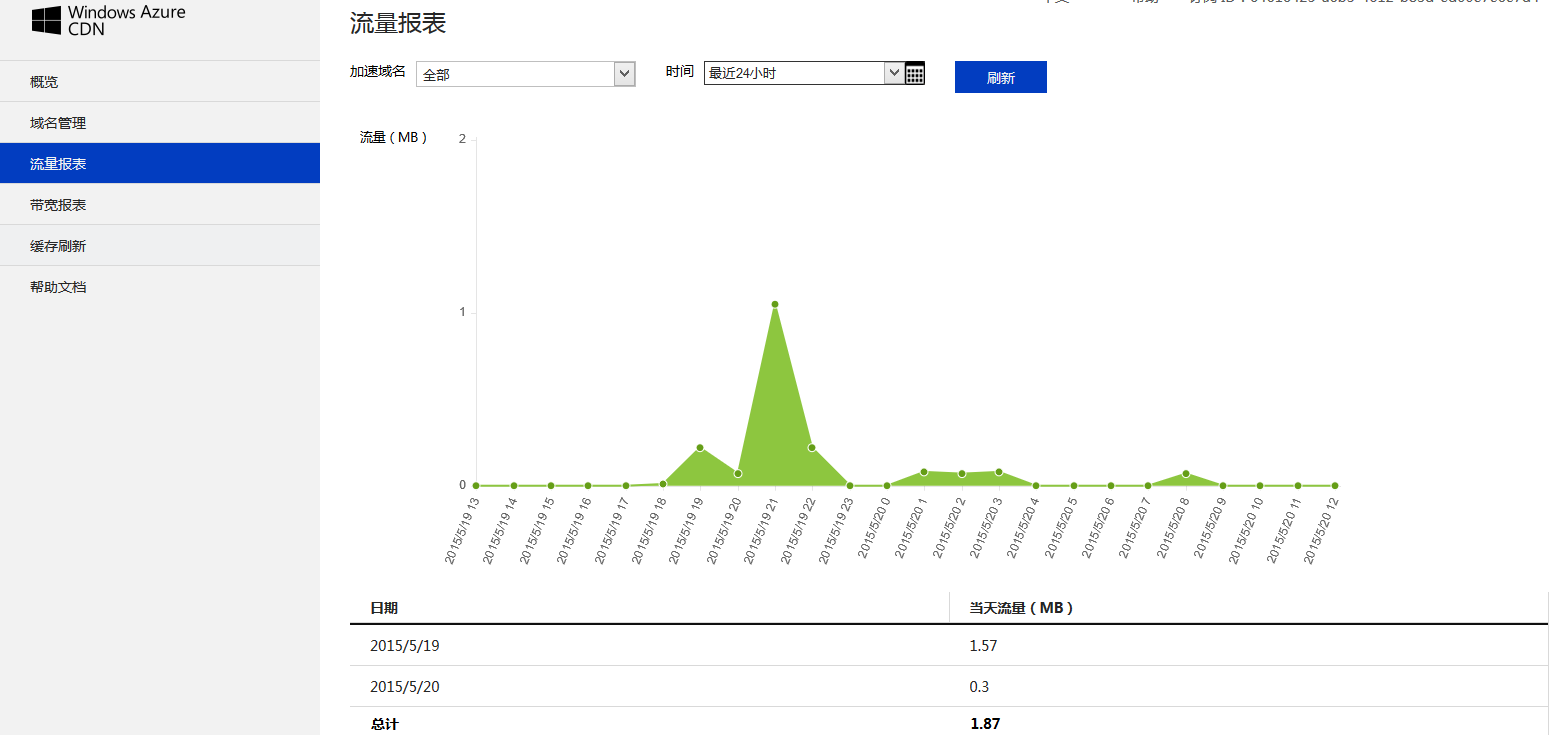
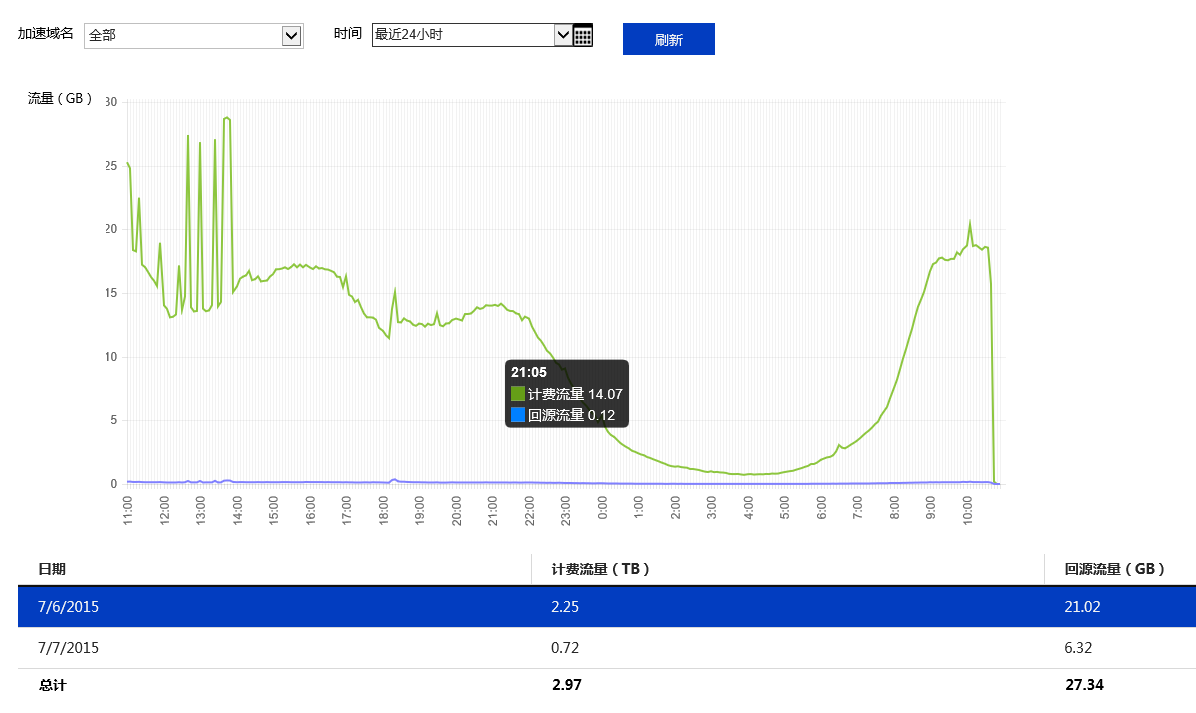
add origin flow and origin bandwidth description

diff --git a/UnifiedPortalHelpDoc/usage-chart.md b/UnifiedPortalHelpDoc/usage-chart.md
@@ -6,10 +6,10 @@
 
 流量统计报表具有以下功能：
 
--   针对有多个Azure 订阅的用户，提供单个订阅的流量统计。
--   针对有多个加速域名的Azure订阅，支持查询单个加速域名流量统计结果和所有加速域名流量汇总。
+-   针对有多个Azure 订阅的用户，提供单个订阅的流量以及回源流量统计。
+-   针对有多个加速域名的Azure订阅，支持查询单个加速域名流量（以及回源流量）统计结果和所有加速域名流量（以及回源流量）汇总。
 -   最小查询粒度精确到小时。
--   提供多种查询时间范围灵活选择。 用户可以查询最近24小时，昨天，今天，最近七天，最近十五天，最近三十天和上个月的流量统计。也可以选择查询某个特定的时间段的流量 （统计时间范围不超过九十天）。
+-   提供多种查询时间范围灵活选择。 用户可以查询最近24小时，昨天，今天，最近七天，最近十五天，最近三十天和上个月的流量统计。也可以选择查询某个特定的时间段的流量以及回源流量 （统计时间范围不超过九十天）。
 
  [1]: images/004.png
 

diff --git a/UnifiedPortalHelpDoc/bandwidth-chart.md b/UnifiedPortalHelpDoc/bandwidth-chart.md
@@ -6,8 +6,8 @@
 
 流量统计报表具有以下功能：
 
--   如果你有多个Azure 订阅，你可以查询单个订阅的带宽统计。
--   针对有多个加速域名的Azure订阅，支持查询单个加速域名带宽统计结果和所有加速域名带宽汇总。
+-   如果你有多个Azure 订阅，你可以查询单个订阅的带宽统计和回源带宽统计。
+-   针对有多个加速域名的Azure订阅，支持查询单个加速域名带宽（以及回源带宽）统计结果和所有加速域名带宽（以及回源带宽）汇总。
 -   最小查询粒度精确到小时。
 -   显示带宽峰值出现时间。
 -   提供多种查询时间范围灵活选择。 你可以查询最近24小时，昨天，今天，最近七天，最近十五天，最近三十天和上个月的带宽统计。也可以选择查询某个特定的时间段的带宽（统计时间范围不超过九十天）。
